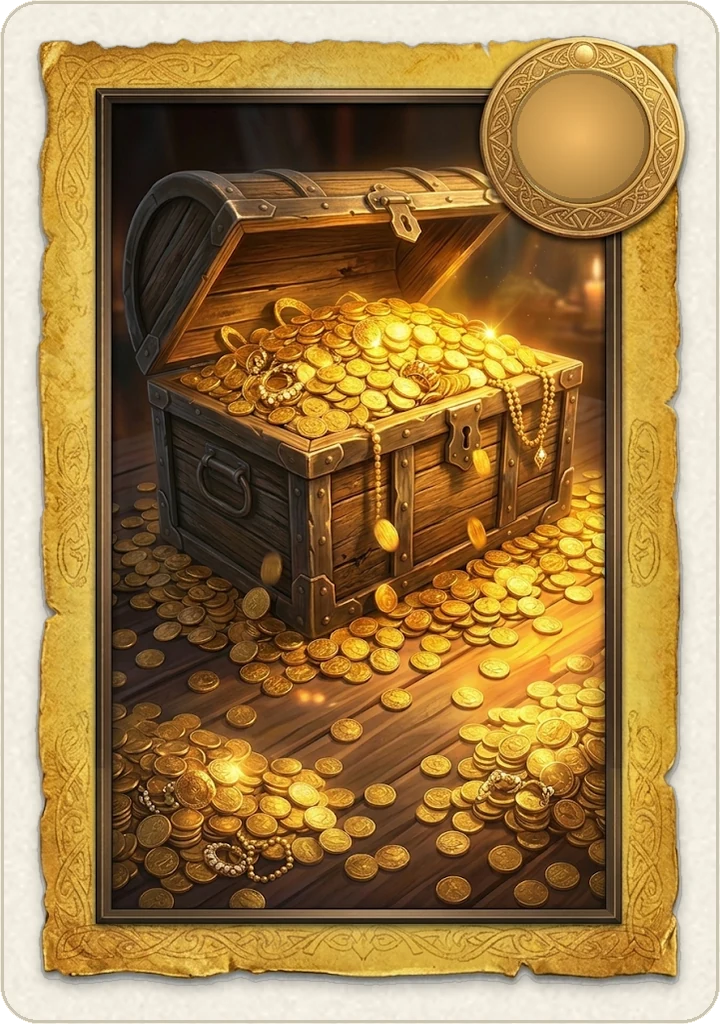
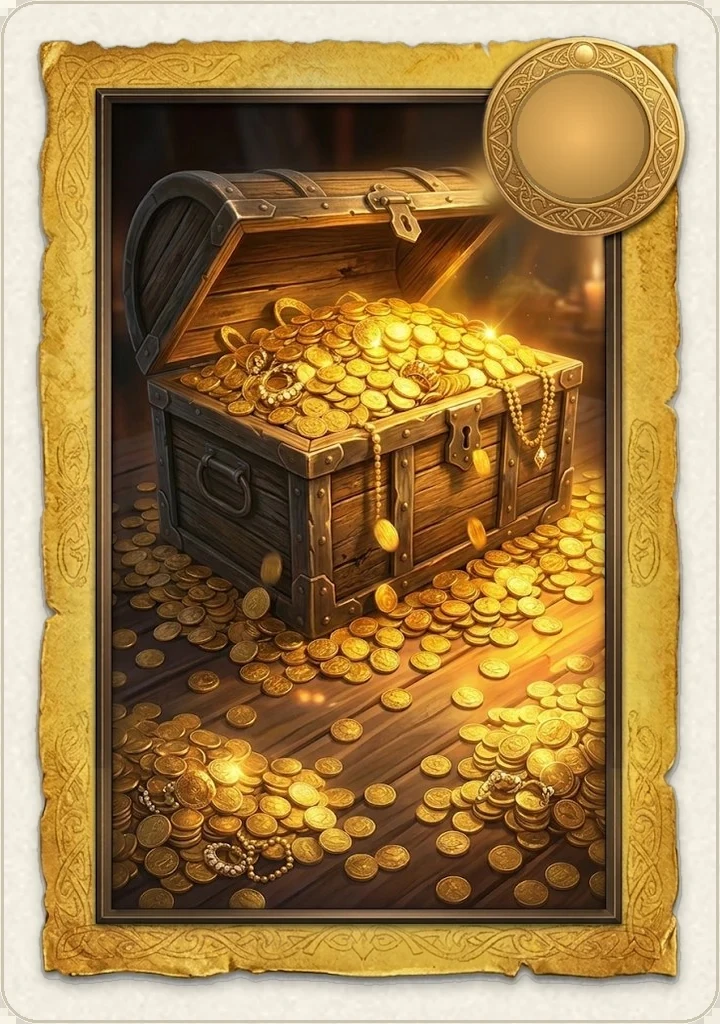
B10 · Images uniques à jour avec les nouvelles illustrations
- originaux (avec bandeau) dans web/public/cards/sources/, lus par decoupe_calques.py et sans_bandeau.py
- 24 cards/<clé>.webp recomposées depuis les calques (illustration puis cadre), comme aplatir_cartes.py
- con → corbin.webp dans les trois scripts (CON réservé sous Windows)
- ART_VERSION 4 : les anciennes images ne restent pas en cache
- test Playwright : image unique = carte en couches au repos (rosie, g7, kraken < 1 %)
- PROMPT-MAITRE : B10 coché, B7 à B9, D14, D14b, D15 recochés, Numérotée /10

diff --git a/tests/visual/b10-images-uniques.spec.ts b/tests/visual/b10-images-uniques.spec.ts
@@ -1,0 +1,24 @@
+// B10 · Images uniques à jour (docs/cartes-couches/PROMPT-B10-images-uniques.md, point 5) : l'image unique cards/<clé>.webp
+// (aplatir_cartes.py) montre la même carte que la version en couches au repos, nouvelle illustration comprise.
+import { test, expect } from '@playwright/test';
+import { openBanc, png, diff } from './outils';
+
+// g7 : les cartes de couleur partagent l'illustration de leur famille (calque suit-green pour le 7 vert)
+const CARTES: [string, string][] = [['rosie', 'rosie'], ['g7', 'suit-green'], ['kraken', 'kraken']];
+
+test('image unique = carte en couches au repos (< 1 % de pixels, même taille)', async ({ page }) => {
+  await openBanc(page);
+  const keys = CARTES.map(([, k]) => k);
+  await page.evaluate(keys => { const b = (window as any).banc; b.render({ keys, still: true }); b.render({ keys, flat: true, still: true }); }, keys);
+  await page.evaluate(() => (window as any).banc.ready());
+  const rows = page.locator('.row'), out: string[] = [];
+  for (const [nom, k] of CARTES) {
+    const a = png(await rows.nth(0).locator(`.cell[data-k="${k}"] .card`).screenshot());
+    const b = png(await rows.nth(1).locator(`.cell[data-k="${k}"] .card`).screenshot());
+    // seuil 0,2 de pixelmatch : la recompression WebP de l'image unique ne compte pas, un décalage ou une autre illustration si
+    const d = diff(a, b, .2);
+    out.push(`${nom} ${(d * 100).toFixed(2)} %`);
+    expect(d, `${nom} : ${(d * 100).toFixed(2)} % de pixels différents`).toBeLessThan(.01);
+  }
+  console.log(out.join(' · '));
+});

diff --git a/web/src/cards.ts b/web/src/cards.ts
@@ -12,7 +12,7 @@ const wrapF = (b: number, h: string) => `<div class="fb${b}">${h}</div>`;
 const A = ALT2 as Record<string, string>, AB = ALT2B as Record<string, number>, NUM = NUM2 as Record<string, any>;
 
 /** Version des illustrations, ajoutée aux URL : un nouveau jeu de cartes est rechargé sans vider le cache à la main. */
-export const ART_VERSION = 3;
+export const ART_VERSION = 4;
 const file = (f: string) => `cards/${f}.webp?v=${ART_VERSION}`;
 /** Correspondance clé → fichier illustré (web/public/cards/<fichier>). Chemin relatif pour Capacitor (base './').
  *  Note : Con le belliqueux est servi par corbin.webp (et pas con.webp) parce que CON est un nom de périphérique

diff --git a/docs/cartes-couches/sans_bandeau.py b/docs/cartes-couches/sans_bandeau.py
@@ -1,7 +1,9 @@
 # Cartes de personnages SANS bandeau : la fenêtre descend jusqu'au bas du cadre,
 # le parchemin et ses morceaux sur les bords sont retirés du calque cadre.
 import cv2, numpy as np, json
-SRC = 'web/public/cards'  # lancer depuis la racine du dépôt, après decoupe_calques.py
+SRC = 'web/public/cards/sources'  # images d'origine ; lancer depuis la racine du dépôt, après decoupe_calques.py
+# CON est un nom de périphérique réservé sous Windows : la carte Con le belliqueux est le fichier corbin.webp (comme web/src/cards.ts)
+FICHIER = {'con': 'corbin'}
 CARDS = {  # médaillon du bas (cx,cy,r), point focal horizontal de l'illustration (0..1)
  'rosie': ((595,885,100), .5), 'rascal': ((595,885,100), .5), 'juanita': ((595,885,100), .5), 'harry': ((595,885,100), .6),
  'mary': ((595,885,100), .5), 'tigress': ((595,885,100), .5), 'con': ((595,885,100), .45),
@@ -16,7 +18,7 @@ def mirror_tile(strip, n):
     while sum(s.shape[0] for s in out) < n: out.append(src)
     return np.concatenate(out, 0)[:n]
 for k, (bm, fx) in CARDS.items():
-    im = cv2.resize(cv2.imread(f'{SRC}/{k}.webp'), (720, 1024), interpolation=cv2.INTER_AREA)
+    im = cv2.resize(cv2.imread(f'{SRC}/{FICHIER.get(k, k)}.webp'), (720, 1024), interpolation=cv2.INTER_AREA)
     orig = im.copy()
     # 1. bandes latérales : on remplace la zone du bandeau par la bande saine du dessus (miroir), fondu sur 24 px
     ys, ye = 560, YB + 2

diff --git a/docs/cartes-couches/aplatir_cartes.py b/docs/cartes-couches/aplatir_cartes.py
@@ -1,0 +1,22 @@
+# Recompose l'image unique de chaque carte (720 x 1024) à partir des calques : illustration dessous, cadre dessus.
+# Sert aux endroits qui affichent une seule image (miniatures du Casier, pouvoir de Juanita, repli cards_layered = off).
+# Lancer depuis la racine du dépôt, après decoupe_calques.py, sans_bandeau.py et masques_effets.py.
+# Les images d'origine (avec bandeau) restent dans web/public/cards/sources/ : ce sont elles que lisent les scripts de découpe.
+import json, os, sys
+from PIL import Image
+CAL = 'web/public/cards/calques'
+OUT = sys.argv[1] if len(sys.argv) > 1 else 'web/public/cards'
+W, H = 720, 1024
+# CON est un nom de périphérique réservé sous Windows : la carte Con le belliqueux est le fichier corbin.webp (comme web/src/cards.ts)
+FICHIER = {'con': 'corbin'}
+info = json.load(open(f'{CAL}/calques.json'))
+for k, d in info.items():
+    a0, b0, a1, b1 = d['illu']
+    card = Image.new('RGBA', (W, H), (0, 0, 0, 0))
+    illu = Image.open(f'{CAL}/illu_{k}.jpg').convert('RGBA').resize((a1 - a0, b1 - b0), Image.LANCZOS)
+    card.paste(illu, (a0, b0))
+    cadre = Image.open(f'{CAL}/cadre_{k}.webp').convert('RGBA')
+    card.alpha_composite(cadre)
+    # coins arrondis : la transparence vient du cadre (l'illustration ne couvre que la fenêtre)
+    card.save(f'{OUT}/{FICHIER.get(k, k)}.webp', quality=90, method=6)
+    print(k)

diff --git a/docs/cartes-couches/decoupe_calques.py b/docs/cartes-couches/decoupe_calques.py
@@ -4,7 +4,9 @@
 # Les coordonnées sont dans l'image 720 x 1024.
 import cv2, numpy as np, json, os
 os.makedirs('web/public/cards/calques', exist_ok=True)
-SRC = 'web/public/cards'  # images d'origine 720 x 1024 ; lancer depuis la racine du dépôt
+SRC = 'web/public/cards/sources'  # images d'origine 720 x 1024 (avec bandeau) ; lancer depuis la racine du dépôt
+# CON est un nom de périphérique réservé sous Windows : la carte Con le belliqueux est le fichier corbin.webp (comme web/src/cards.ts)
+FICHIER = {'con': 'corbin'}
 # fenêtre transparente (x0,y0,x1,y1), médaillons qui restent opaques (cx,cy,r), bas du gabarit personnage
 T = {
  'suit':  dict(win=(116,104,602,911), meds=[(583,135,101)]),
@@ -30,7 +32,7 @@ OVR = {
 info = {}
 for k, tpl in C.items():
     cfg = dict(T[tpl]); cfg.update(OVR.get(k, {}))
-    im = cv2.resize(cv2.imread(f'{SRC}/{k}.webp', cv2.IMREAD_COLOR), (720, 1024), interpolation=cv2.INTER_AREA)
+    im = cv2.resize(cv2.imread(f'{SRC}/{FICHIER.get(k, k)}.webp', cv2.IMREAD_COLOR), (720, 1024), interpolation=cv2.INTER_AREA)
     x0, y0, x1, y1 = cfg['win']
     # --- calque cadre : alpha 0 dans la fenêtre, 255 ailleurs et sur les médaillons
     a = np.full((1024, 720), 255, np.uint8)

diff --git a/docs/PROMPT-MAITRE.md b/docs/PROMPT-MAITRE.md
@@ -61,6 +61,7 @@ Ce dossier rassemble tout ce qui a été conçu pour le site. Une partie est peu
 - [x] B7. **Cartes en couches** : chaque carte découpée en 2 calques alignés au pixel, le cadre peint d'origine (fenêtre transparente, `cards/calques/cadre_*.webp`) par-dessus l'illustration seule (`illu_*.jpg`). Identique au repos, et seule l'illustration bouge quand on anime : plus aucune cassure du bord. À faire avant D11 et D14. Voir `docs/cartes-couches/` et les maquettes `CarteVar`, `CarteCouches`.
 - [x] B8. **Personnages sans bandeau + variantes renforcées** : le parchemin du nom disparaît des pirates, sirènes et Skull King (illustration jusqu'en bas, nom au survol). Masques par carte `marge_` (toute la bordure blanche), `foil_` (fond seul) et `fond_`. Holo texturé sur le fond seulement, Vivante en 2 plans avec mer qui ondule, Signée en dorure à chaud. Après B7, avant D14. Prompt `docs/cartes-couches/PROMPT-B8-claude-code.md`, CSS `carte-variantes.css`.
 - [x] B9. **Zoom identique dans toutes les variantes** : l'illustration a la même taille partout ; la Vivante ne zoome que de 2 à 3,5 %. (Full Art mis de côté, en attente des illustrations sans bordure.) Voir `docs/cartes-couches/SPEC.md`.
+- [x] B10. **Images uniques à jour** : les originaux passent dans `web/public/cards/sources/`, et `aplatir_cartes.py` recompose les 24 `cards/<clé>.webp` à partir des calques (nouvelles illustrations sans bandeau) pour le Casier, le pouvoir de Juanita et le repli `cards_layered = off`. Voir `docs/cartes-couches/PROMPT-B10-images-uniques.md`.
 
 ### C. Compte et progression (`docs/ecrans-compte/SPEC.md`, prompt 2)
 - [ ] C1. Pages Accueil, AccueilMobile, Salon, Profil, Historique, DetailPartie, Classement, avec la barre `AppBar` sur ordinateur et la barre d'onglets en bas sur téléphone.
@@ -94,7 +95,7 @@ Ce dossier rassemble tout ce qui a été conçu pour le site. Une partie est peu
 - [ ] D11. Cartes animées, rareté Mythique (1 %) : 6 cartes dont l'illustration s'anime (vidéos en boucle prêtes dans `web/public/cards/anim/`) : Kraken, Skull King, Raie, Baleine, Alyra, Fosse des Noyés. Voir `docs/cartes-animees/` et la maquette `CartesAnimees`.
 - [ ] D12. **Boutique** et **Joker** : coffre 100, 3 coffres 270, Joker 150 (11e manche bonus posée dans le salon, 6 joueurs au plus), échoppe de la semaine (6 objets renouvelés le lundi : 3 communs, 2 rares, 1 épique), pièces gagnées en jouant. Voir `docs/casier-boutique/` et la maquette `Boutique`.
 - [ ] D13. **Garde-robe v2 et coffres v2** : avatar détaillé `Pirate2`, 9 emplacements (Tenue, Oreille et Dos en plus), teintures par zone, variantes Neuf / Patiné / Doré, ornements, 3 tenues, ensembles ; 4 types de coffres avec priorité au neuf, doublons → variantes → éclats, garanties Épique 10 / Légendaire 40, Atelier ; ouverture avec escalade de rareté ; rareté visible sur la plaque à la table. Remplace la partie objets et coffres de D6, D8 et D12. Voir `docs/garde-robe-v2/` et les maquettes `CasierV2`, `CoffresV2`, `RaretesTable`, `Pirate2`.
-- [x] D14. **Boosters de cartes** : le booster (50 pièces, 5 cartes, 3 boosters à thème) remplace le coffre en boutique et en victoire. Chaque carte du jeu a 8 variantes visuelles (Standard, Patinée, Bord d'étain, Holographique, Vivante, Nacre, Signée, Numérotée /100) qui ne touchent jamais au cadre, au médaillon ni au bandeau du nom (règle n° 1 : la famille de la carte doit rester reconnaissable), la variante jouée est visible à la table ; doublons → éclats, fabrication, probabilités à la Pokémon TCG Pocket, un peu réduites (cartes 4 et 5, booster divin 1/2 000), Collection. Voir `docs/boosters/` et les maquettes `Collection`, `Booster`, `CarteVar`.
+- [x] D14. **Boosters de cartes** : le booster (50 pièces, 5 cartes, 3 boosters à thème) remplace le coffre en boutique et en victoire. Chaque carte du jeu a 8 variantes visuelles (Standard, Patinée, Bord d'étain, Holographique, Vivante, Nacre, Signée, Numérotée /10) qui ne touchent jamais au cadre, au médaillon ni au bandeau du nom (règle n° 1 : la famille de la carte doit rester reconnaissable), la variante jouée est visible à la table ; doublons → éclats, fabrication, probabilités à la Pokémon TCG Pocket, un peu réduites (cartes 4 et 5, booster divin 1/2 000), Collection. Voir `docs/boosters/` et les maquettes `Collection`, `Booster`, `CarteVar`.
 - [x] D14b. **Ouverture de booster v2** (avec D14) : carrousel des boosters, coupe au doigt le long des pointillés, lumière neutre (aucun spoil), pile qu'on fait glisser carte par carte (seule la 5e face cachée), moment Signée / Numérotée, butin avec barre de collection, sons et vibrations. Voir `docs/boosters/OUVERTURE.md` et la maquette `Booster`.
 - [x] D15. **Atelier de fabrication** (avec D14) : éclats des doublons → fabrication **au hasard** par rareté (Commune 20, Holo 80, Épique 240, Signée 800, jamais une variante déjà possédée) ou **au choix** (×4 : 80 / 320 / 960 / 3 200), Numérotées non fabricables, « Tout recycler ». Voir `docs/boosters/ATELIER.md` et la maquette `Atelier`.
 - [ ] D10. Tests :

diff --git a/docs/cartes-couches/PROMPT-B10-images-uniques.md b/docs/cartes-couches/PROMPT-B10-images-uniques.md
@@ -1,0 +1,15 @@
+# B10. Images uniques des cartes à jour (nouvelles illustrations)
+
+Les cartes en couches (illustration + cadre) sont le rendu par défaut. Mais 3 endroits affichent encore l'image unique `web/public/cards/<clé>.webp`, qui contient l'**ancienne** illustration (avec bandeau) : la miniature du personnage dans le Casier, les petites cartes du pouvoir de Juanita, et tout le jeu quand `cards_layered` est coupé. Il faut que l'image unique montre exactement la même carte que la version en couches.
+
+**Solution : on ne dessine rien, on assemble.** Le script `docs/cartes-couches/aplatir_cartes.py` recompose chaque carte en 720 × 1024 : l'illustration (`illu_<clé>.jpg`, à sa place `illu` de `calques.json`), puis le cadre (`cadre_<clé>.webp`) par-dessus. Le résultat est identique au pixel près à la carte en couches au repos.
+
+1. **Garder les originaux comme sources**, avant tout le reste :
+   - `git mv web/public/cards/<clé>.webp web/public/cards/sources/<clé>.webp` pour les 24 cartes (pas `calques/`, pas `anim/`) ;
+   - les scripts `decoupe_calques.py` et `sans_bandeau.py` lisent désormais `web/public/cards/sources/` (déjà modifié dans `docs/cartes-couches/`). Ne jamais régénérer les calques à partir des images aplaties.
+2. **Générer les images uniques** : `python3 docs/cartes-couches/aplatir_cartes.py` (racine du dépôt). Il écrit les 24 `web/public/cards/<clé>.webp` (RGBA, qualité 90, environ 70 à 110 Ko). Les 11 personnages changent visiblement ; les autres cartes sont identiques à avant, régénérées pour rester cohérentes.
+3. **Vérifier les 3 usages** : miniature du Casier, pouvoir de Juanita, et jeu entier avec `cards_layered = off`. Aucun code à changer si les chemins restent `cards/<clé>.webp` ; sinon, aligne-les.
+4. **Chaîne complète pour une nouvelle carte** (à écrire dans `docs/cartes-couches/SPEC.md`, section « Découpe ») : image d'origine dans `sources/` → `decoupe_calques.py` → `sans_bandeau.py` (personnages) → `masques_effets.py` → `aplatir_cartes.py`.
+5. **Test** (Playwright) : pour 3 cartes (`rosie`, `g7`, `kraken`), capture de la carte en couches au repos et de l'image unique à la même taille : moins de 1 % de pixels différents.
+
+Coche B10 dans `docs/PROMPT-MAITRE.md`.

diff --git a/docs/cartes-couches/SPEC.md b/docs/cartes-couches/SPEC.md
@@ -33,7 +33,8 @@ Par-dessus le cadre, on ajoute seulement :
 
 ## Découpe
 
-- Script : `docs/cartes-couches/decoupe_calques.py`. Il prend les images d'origine 720 × 1024 et écrit `web/public/cards/calques/`.
+- Script : `docs/cartes-couches/decoupe_calques.py`. Il prend les images d'origine 720 × 1024 dans `web/public/cards/sources/` et écrit `web/public/cards/calques/`.
+- Chaîne complète : `sources/` → `decoupe_calques.py` → `sans_bandeau.py` → `masques_effets.py` → `aplatir_cartes.py` (images uniques `cards/<clé>.webp`, identiques à la carte en couches). Exception de nom : la carte Con le belliqueux (clé `con`) est le fichier `corbin.webp` dans `sources/` et `cards/`, car CON est un nom réservé sous Windows ; les trois scripts font la correspondance (`FICHIER`).
 - Réglages par **gabarit**, en pixels de l'image 720 × 1024 :
   - `suit` (cartes de couleur) : fenêtre `116,104 → 602,911`, médaillon `(583,135) r101` ;
   - `pir` (personnages : pirates, sirènes, Skull King) : fenêtre `96,98 → 624,690`, au-dessus du parchemin du nom ; médaillons d'angle `(119,119) r86` et `(612,108) r80` ;
